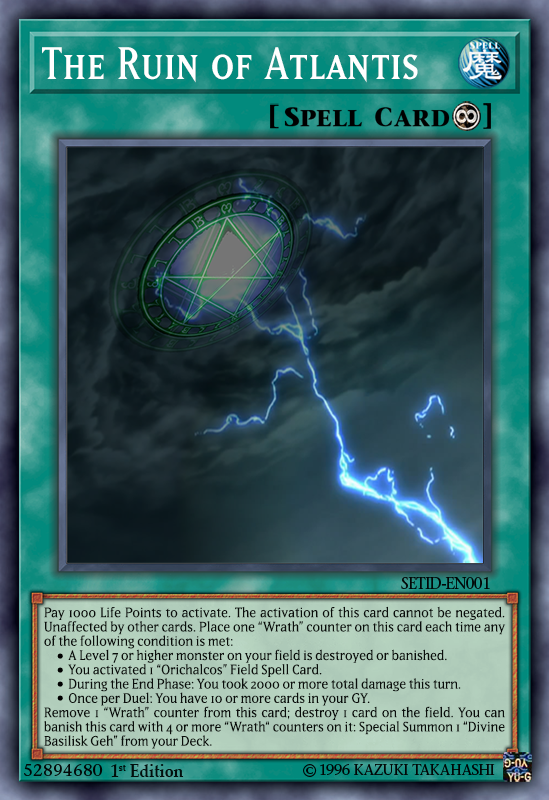
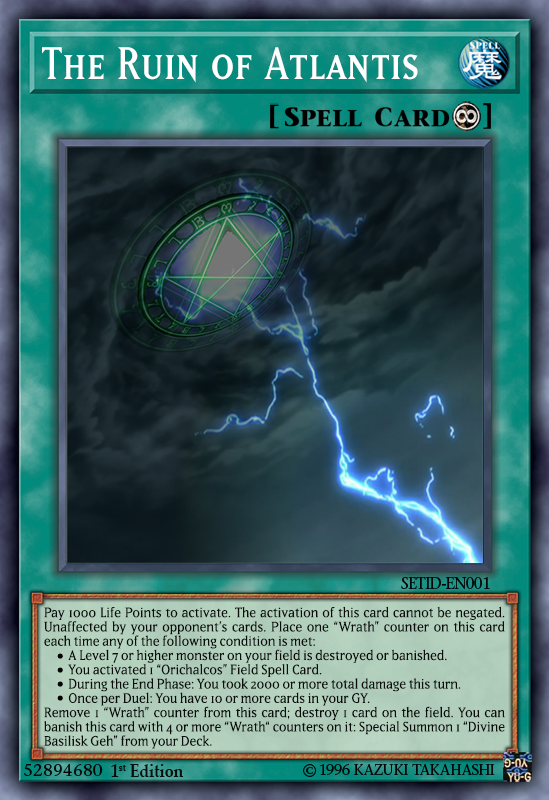
Update

Changed region(s): [[0.0929, 0.7812, 0.929, 0.8125]]

diff --git a/Scripts/cards_db.js b/Scripts/cards_db.js
@@ -513,7 +513,7 @@ var CARDS_DB =
             "ATK": 0,
             "DEF": 0,
             "Attribute": "",
-            "Effect": "Pay 1000 Life Points to activate. The activation of this card cannot be negated. Unaffected by other cards. Place one \u201cWrath\u201d counter on this card each time any of the following condition is met:<ul><li>A Level 7 or higher monster on your field is destroyed or banished.</li><li>You activated 1 \u201cOrichalcos\u201d Field Spell Card.</li><li>During the End Phase: You took 2000 or more total damage this turn.</li><li>Once per Duel: You have 10 or more cards in your GY.</li></ul>Remove 1 \u201cWrath\u201d counter from this card; destroy 1 card on the field. You can banish this card with 4 or more \u201cWrath\u201c counters on it: Special Summon 1 \u201cDivine Basilisk Geh\u201d from your Deck."
+            "Effect": "Pay 1000 Life Points to activate. The activation of this card cannot be negated. Unaffected by your opponent\u2019s cards. Place one \u201cWrath\u201d counter on this card each time any of the following condition is met:<ul><li>A Level 7 or higher monster on your field is destroyed or banished.</li><li>You activated 1 \u201cOrichalcos\u201d Field Spell Card.</li><li>During the End Phase: You took 2000 or more total damage this turn.</li><li>Once per Duel: You have 10 or more cards in your GY.</li></ul>Remove 1 \u201cWrath\u201d counter from this card; destroy 1 card on the field. You can banish this card with 4 or more \u201cWrath\u201c counters on it: Special Summon 1 \u201cDivine Basilisk Geh\u201d from your Deck."
         }
     },
     {
